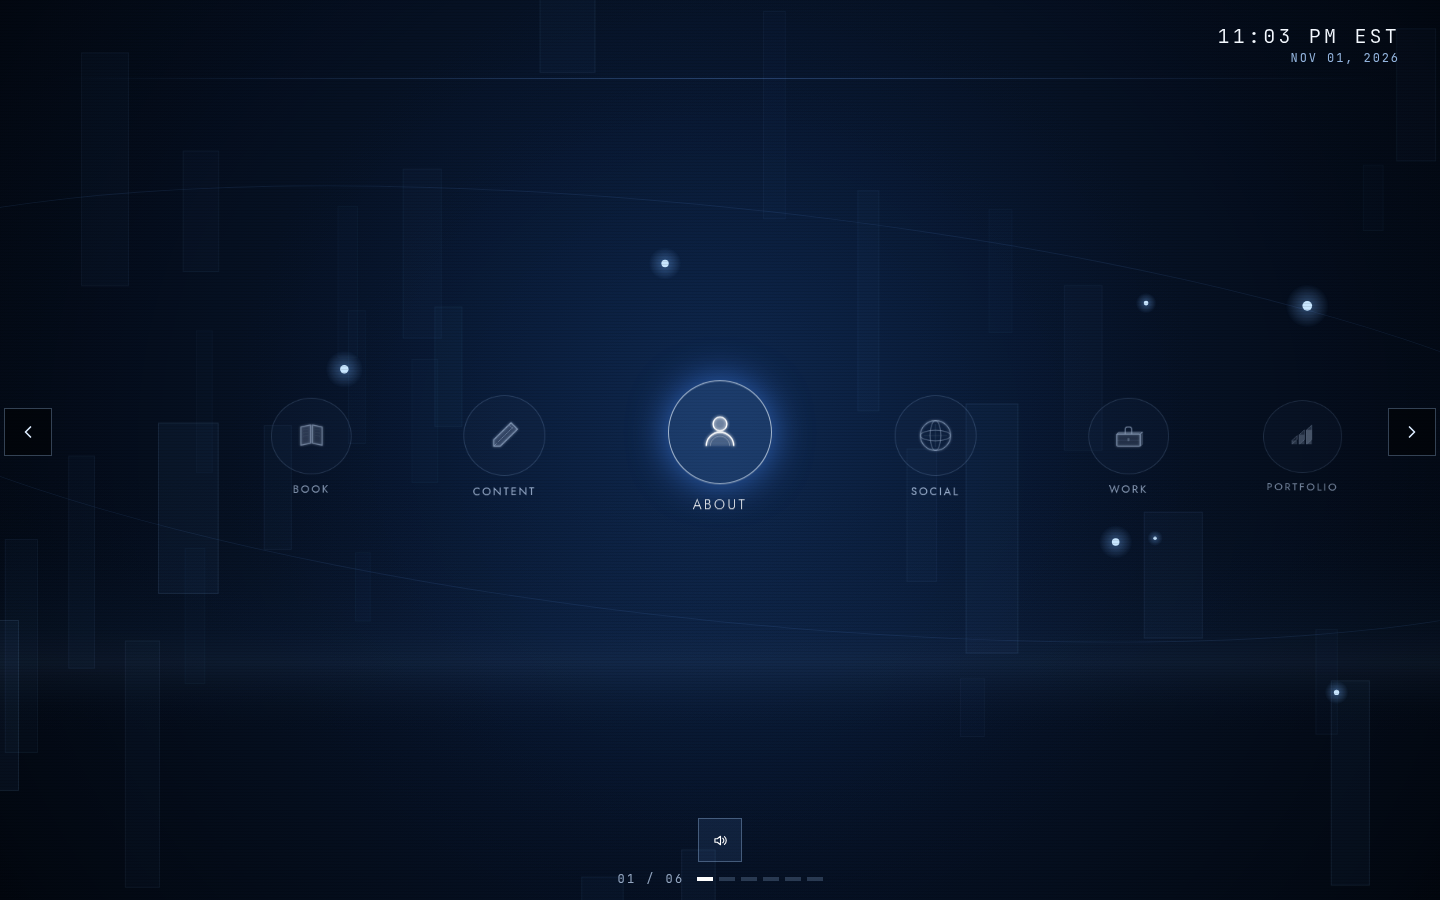
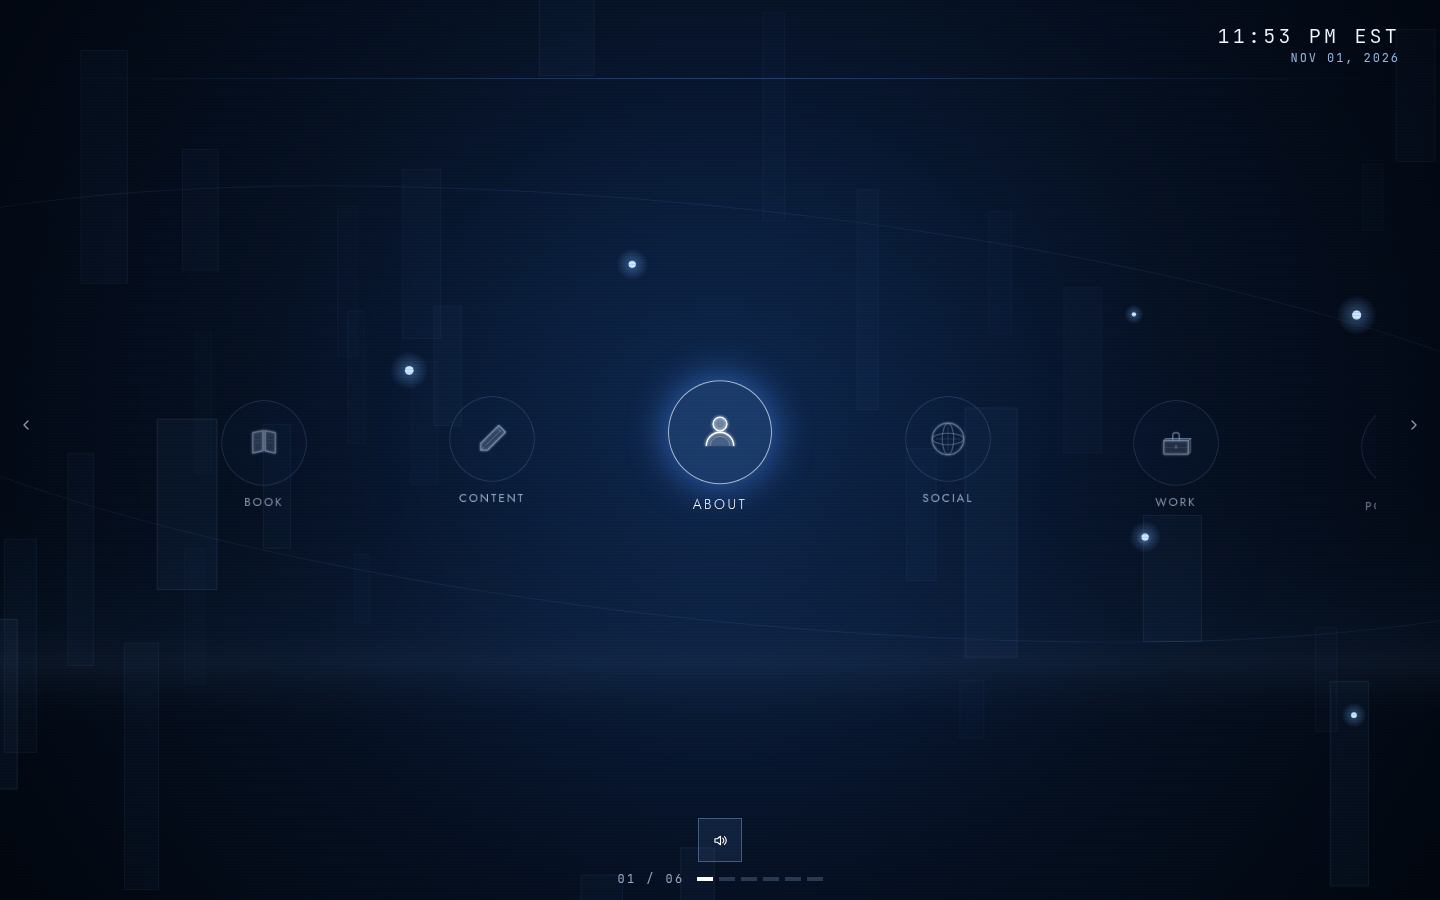
docs: log the real-phone touch and polish pass

diff --git a/docs/implementation-log.md b/docs/implementation-log.md
@@ -263,3 +263,17 @@ Headless Chrome against the production preview at 1440×900 (keyboard/mouse) and
 - **Verification — Done.** `npm run typecheck`, `npm run lint`, `npm run build` (29 routes) and `npm run budget` exit 0 (104.0 KB initial JS, 13.1 KB CSS gzip). Playwright on the production preview: all six content tabs and `/work` render no count strings or numeric tab badges; only Podcasts has `#content-search` and `#content-year`; podcasts filter live; lectures are two flat rows newest first with no venue/year headings; tutorials start with the workshop; the book has no disclosure and a sponsored Amazon link; investments render in the required order; the Denver BitDevs design logo remains; mobile 390 × 844 has no horizontal overflow. A mobile fresh load with the intro gate, a keyboard Enter on that gate, and a first tap on the returning-visitor menu each started one running AudioContext, 7 boot oscillators and an 18 ms vibration; the graph showed the 0.45 master and 2,400 Hz low-pass. No console or page errors.
 - **FINAL AUDIT.** 1 PASS (`ContentScreen.tsx:63-70,587-591`; `WorkScreen.tsx:47-70`; rendered sweep). 2 PASS (`BookScreen.tsx:73-75`; zero `.book-disclosure`/`Affiliate link` in source and CSS). 3 PASS (`constants.tsx:93-99`; `PortfolioScreen.tsx:55`; browser order). 4 PASS (`data/media.ts:349-354`). 5 PASS (`data/media.ts:333-346`; logo `constants.tsx:62-69`). 6 PASS (`ContentScreen.tsx:618,783-786`). 7 PASS (`ContentScreen.tsx:609,671`; podcast search exercised). 8 PASS (`SoundManager.ts:11,15,74-86,259-263`). 9 PASS (`Interaction.ts:167-215`; `HapticManager.ts:53,61`).
 - **Stage Show source — Partial.** `.agents/skills/stageshow/SKILL.md` is still absent from this checkout (only `kit/` and `examples/`), so its principles were applied from `docs/design-review.md` and the earlier log; `.agents/skills/family-values/SKILL.md` was read and cited directly. PS2 BIOS/system-menu fidelity, WCAG 2.2 and reduced motion (unchanged short boot) were checked throughout.
+
+## Real-phone pass: first tap, edge arrows, projects, designs, podcasts, tutorials, mark — fix/menu-touch
+
+- **1. Double tap — Done.** Root causes found in the code and reproduced, not guessed. (a) `.menu-stage` used `perspective: 1100px` and tiles sat on negative-Z `translate3d`, so they were composited behind the stage plane and `elementFromPoint` returned `.menu-stage-wrap`; the first tap was swallowed and the second landed after the browser's hover pass. The stage is flat now and tiles translate on Z=0 with depth from scale/opacity (`MainMenu.tsx:379`). (b) Project descriptions were hover-only reveals, so a touch hover changed the row height under the finger and the click missed; they now render in every state (`PortfolioScreen.tsx:36`, `styles/app.css` `.project-card .system-card__desc`). (c) All `:hover` rules are scoped in `@media (hover: hover) and (pointer: fine)` and Tailwind is set to `future.hoverOnlyWhenSupported` (`styles/app.css:182` onward; `tailwind.config.js:6`); `touch-action: manipulation` covers html, body and controls (`styles/app.css:105,112,125`). (d) `suppressClick` is only set when horizontal movement passed the 8 px threshold, a vertical drag clears the gesture, and a fresh `pointerdown` cancels the timer (`MainMenu.tsx:228-250,279-295`). `scripts/tap-once-check.py` (390 × 844, `hasTouch`, `isMobile`, DPR 2, Chromium touch context because this box's WebKit is missing libs) passes: one tap opens a non-active tile, a swipe then one tap opens, and a touch scroll then one tap opens an essay. **Guide:** Family Values' fluidity (no dead first touch) and equal polish; WCAG 2.5.8 and 1.4.13; Stage Show's quiet hierarchy from `docs/design-review.md`.
+- **2. Edge arrows — Done.** 44 × 44 px invisible targets pinned at `max(0.25rem, env(safe-area-inset-*))`, 16 px chevrons, zero border and transparent background. Spacing now reserves the 48 px edge slot plus a 24 px gap and hides far tiles once their orb would reach the slot (`MainMenu.tsx:24-26,91-95,374`). Measured at 360/390/430 px: targets x 4–48 and 312/342/382–at the right edge, icons 16 × 16, zero intersections with any visible orb or label. **Guide:** PS2 browser chrome fidelity, Stage Show restraint, WCAG 2.5.8.
+- **3. Project descriptions — Done.** Restored `description={item.description}` (`PortfolioScreen.tsx:36`); strings come unchanged from `constants.tsx` (`Bitcoin Birth Certificate`, `Hax`, `The Space`), matching the copy removed in `bb4fc05`. Only descriptions were restored; tags and helper text stay gone. **Guide:** Family Values' simplicity (real words that carry meaning); Stage Show's real-string rule.
+- **4. Design frames — Done.** `SafeImage` takes `frameAspect` and every design tile uses `1 / 1` (`PortfolioScreen.tsx:263`); the frame is a fixed square with 8 px inner padding, `object-fit: contain`, `object-position: center bottom` (`styles/app.css` `.design-tile__image`, `.design-tile__img`). At 390 px all five frames measure 147.2 × 147.2 with image 147.2 × 146.2, two per row on identical row tops and titles on one baseline; Denver BitDevs sits on the same baseline as the rest. **Guide:** PS2 file-browser even grid; Family Values' "no dirty bathroom" equal polish.
+- **5. Book affiliate — Done.** The link and label were already removed in `cd4bbc6`; this pass re-checked the tree and the rendered page: `rg -i affiliate` outside `docs/` returns nothing, and `/book` body text does not contain it. **Guide:** Family Values' simplicity; WCAG 2.4.4.
+- **6. Podcasts — Done.** Removed `MediaFeature` and the featured episode; podcasts render one `MediaRow` list, 26 rows, zero `.media-feature` nodes. The first two rows have identical rest styles (`rgba(9, 24, 50, 0.38)` card background, 1 px blue border, no shadow, `outline-style: none`); only `:focus-visible` draws the keyboard ring. **Guide:** Family Values' simplicity and Stage Show's one primary action; PS2 list fidelity.
+- **7. Tutorials — Done.** Every tutorial row now leads with the shared `.media-play` control (`ContentLists.tsx`), 8 rows and 8 buttons. Computed style matches podcast exactly: 32 × 32, 1 px `rgba(150, 200, 255, .55)`, `rgba(30, 70, 140, .35)`, 50% radius, white 14 px glyph. **Guide:** Family Values' consistency and equal polish.
+- **8. Mark — Done.** `components/Wordmark.tsx` and `public/favicon.svg` now draw only the squared ₿ (4 paths, 0 rects, 0 circles) in `currentColor`/`#cfeaff`, 3.2-unit stroke; the frame outline and three bars are gone and the `JUSTSAYBITS` lockup keeps its position. `favicon-32/96/192/512`, `apple-touch-icon` (flattened `#050a14`) and `favicon.ico` were re-rendered from the SVG. The favicon keeps its dark rounded plate as the icon background for contrast on light browser chrome. **Guide:** Stage Show's poster-frame legibility at 16–32 px; Family Values' equal polish across gate, boot and favicon.
+- **Verification — Done.** `npx tsc --noEmit -p .`, `npm run lint`, `npm run build` (29 routes) and `npm run budget` exit 0 (initial JS 330.99 KB / 106.68 KB gzip; CSS 13.1 KB gzip). `scripts/tap-once-check.py` 7/7 PASS and `scripts/menu-touch-check.py` all PASS on a fresh production preview. `docs/screenshots/menu-phone-after.png` (780 × 1688) and `menu-desktop-after.png` (1440 × 900) were retaken; checked by existence, byte size and dimensions only.
+- **FINAL AUDIT.** 1 PASS (`MainMenu.tsx:379`; hover query and `touch-action`; one-tap Playwright). 2 PASS (44 px targets, 16 px icons, zero overlaps at 360/390/430). 3 PASS (`PortfolioScreen.tsx:36`; exact `constants.tsx` strings). 4 PASS (five equal square frames, 8 px padding, bottom-anchored images, aligned titles). 5 PASS (source and rendered text clean). 6 PASS (0 featured boxes, identical rest styles, `:focus-visible` only). 7 PASS (8/8 `.media-play`, identical computed style). 8 PASS (4 paths, no bars/frame, favicons re-rendered).
+- **Stage Show source — Partial.** `.agents/skills/stageshow/SKILL.md` is absent from this checkout (only `kit/` and `examples/`), so its rules were applied from the principles recorded in `docs/design-review.md`; `.agents/skills/family-values/SKILL.md` is present and was read and cited directly.
